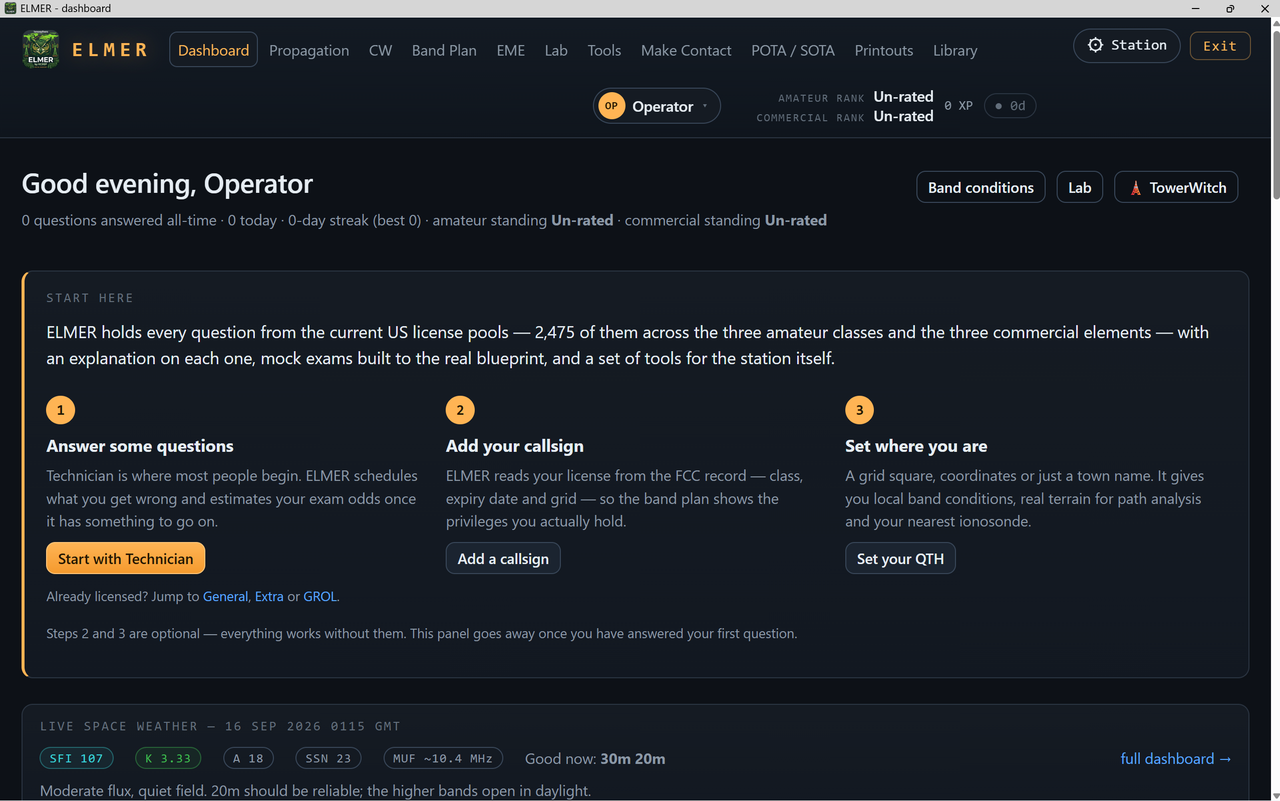
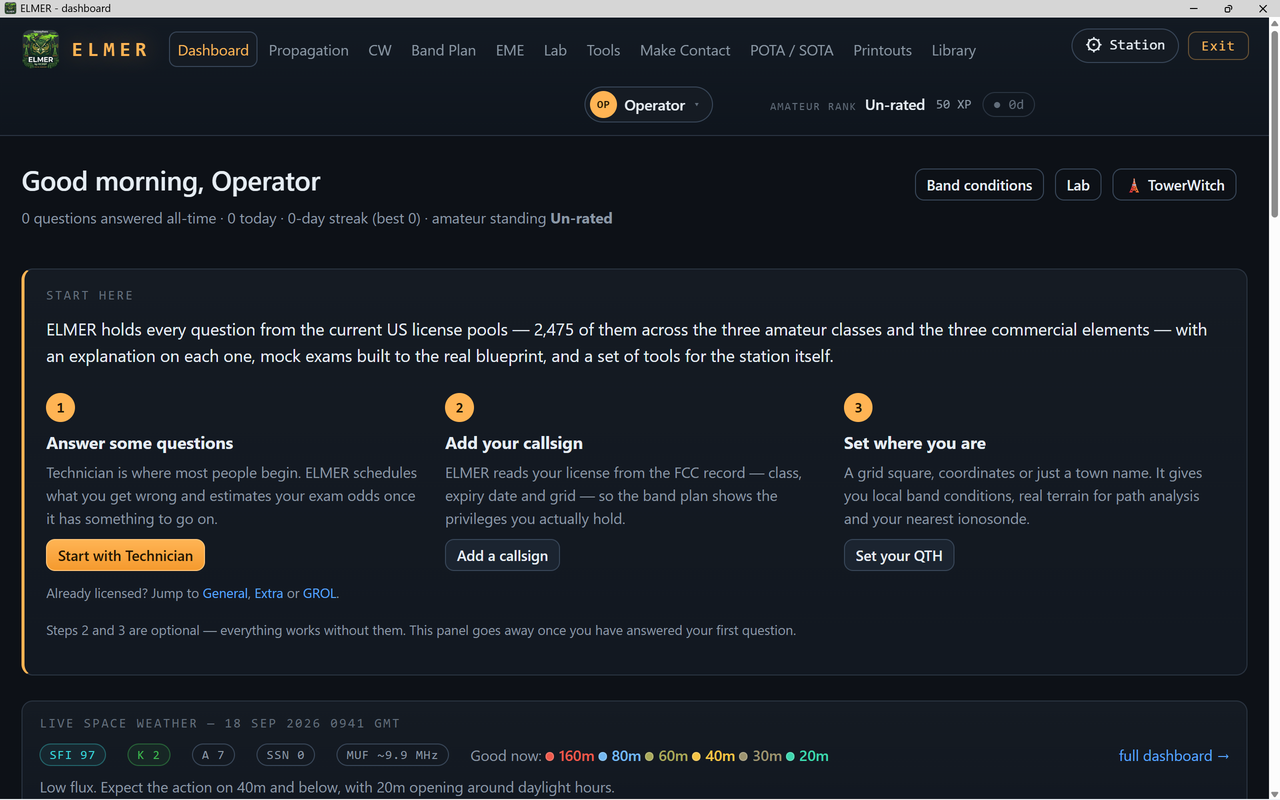
The User's Guide's first start is pictured as one, in three shots down the first screen: the Start here panel and its steps, then standing and the amateur track, then the class cards, the Gaming Center, the achievements and the Software panel
The three are the FreshOpen screenshots from the artwork folder, at the guide's width.

diff --git a/CHANGELOG.md b/CHANGELOG.md
@@ -7,7 +7,7 @@ short commit id on its dashboard and in every problem report.
 
 ## 2026-09-18
 
-- The User's Guide's first-start picture is a first start: the Start here panel and its three steps, from the artwork folder's screenshot; the settled dashboard it showed before now illustrates the status strip
+- The User's Guide's first start is pictured as one, in three shots down the first screen: the Start here panel and its steps, then standing and the amateur track, then the class cards, the Gaming Center, the achievements and the Software panel; the settled dashboard it showed before now illustrates the status strip
 - The User's Guide catches up with the day: the coffee card and the supporter key, Resend and the Q-codes on the CW page, the audio key, the ladder, the tiers and the season in CW Baseball, again, QRS and QRQ at the plate, the paddle on the phone, the achievements and the printable awards, and the Library's games topic; the shelf's copy is rebuilt from it when ELMER next starts
 - The Library's topics have a Games and the table entry, so the User's Guide's chapters on the Gaming Center, the tournament, the shootout, CutThroat, golf, CW Baseball, net control and the Lounge are listed there; they were bookmarked and searchable all along, but no topic named them, so only CW Baseball showed, and only under CW
 - ELMER's awards can be printed: the badges an account holds sit as plaques on the Library's bottom shelf and on a shelf in the Lounge, a tap takes one down for a closer look, and Open builds it as a page for the wall - the certificates' own shape, a star for the medal, the badge's name, whose and when - on the print shelf, open in the browser's viewer where the print button is; only a badge held is printed, because the page says it was earned

diff --git a/USER-GUIDE.md b/USER-GUIDE.md
@@ -33,6 +33,12 @@ The dashboard opens with a panel headed **Start here**, three numbered steps: an
 
 ![The dashboard on a first start: the Start here panel and its three steps](docs/screenshots/guide/first-start.png)
 
+Scroll down and the rest of the first screen is already there, waiting for a record to fill it: the live space weather strip, then **Standing** - the study ranks, with the plain statement that they are ELMER's own and not licences - and the amateur track with its three classes not yet started.
+
+![Further down on a first start: standing, and the amateur track](docs/screenshots/guide/first-start-2.png)
+
+![Further still: the class cards, the Gaming Center, the achievements and the Software panel](docs/screenshots/guide/first-start-3.png)
+
 **Kiosk mode and the Exit button.** Started with `--kiosk` on a Pi, or as its own window on Windows, ELMER fills the screen and shows an **Exit** button in the top corner. Exit stops ELMER and closes the window, after asking if anyone is playing on the unit from another device. Links that lead outside ELMER open a page that says so first, with a way back, so a full-screen browser with no back button never strands you.
 
 **A tab pressed twice.** The tabs at the top light up when pressed and ignore a second press for a moment. On a Pi a page takes a second or two to build, and the second press would throw away the first.
